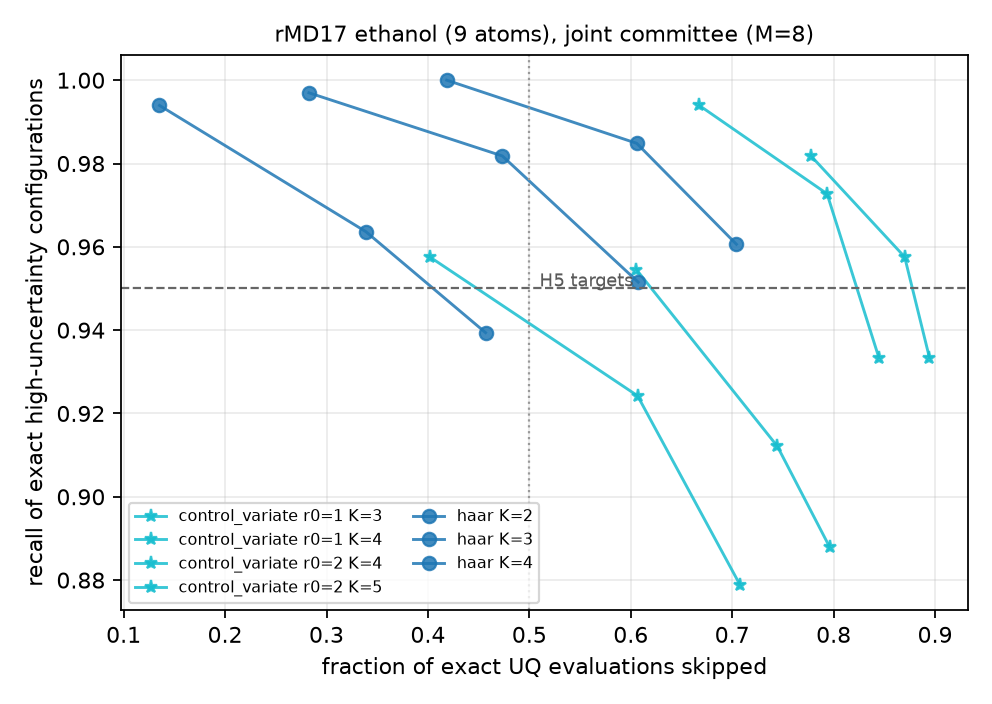
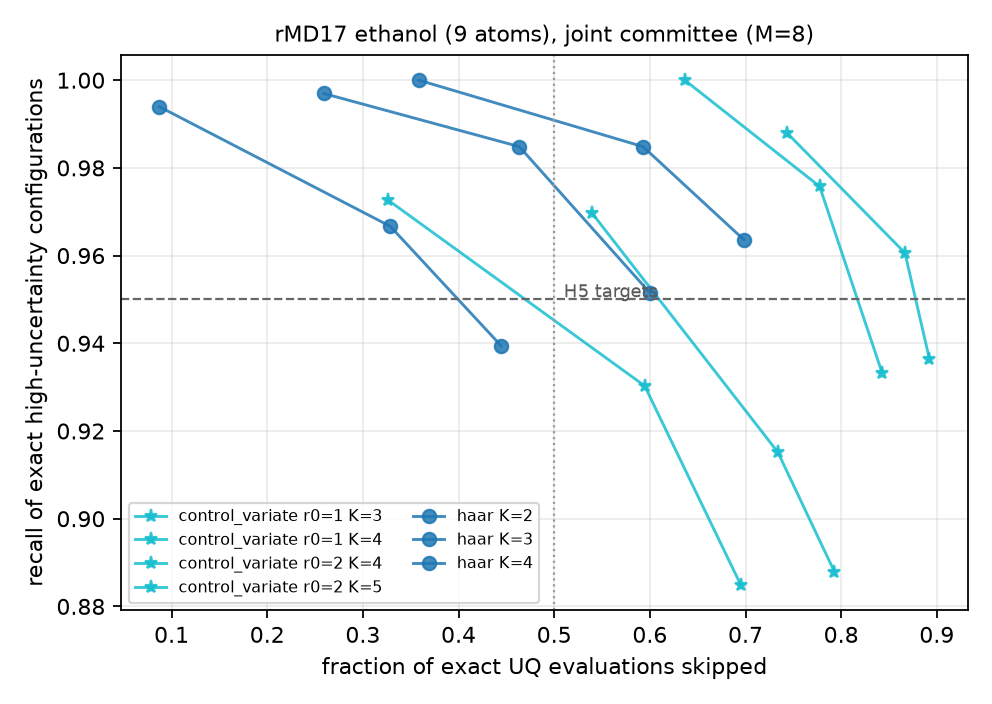
Regenerate frozen artifacts from committed records

diff --git a/forcesketch/paper/macros.tex b/forcesketch/paper/macros.tex
@@ -21,18 +21,18 @@
 \newcommand{\fsTotalKTwoBSixtyFour}{2.39}
 \newcommand{\fsIncrKThreeBSixtyFour}{2.33}
 \newcommand{\fsIncrKTwoBSixtyFour}{3.51}
-\newcommand{\fsGateSkipThreeBPA}{0.860}
-\newcommand{\fsGateRecallThreeBPA}{0.982}
-\newcommand{\fsGateSpeedupThreeBPA}{1.25}
-\newcommand{\fsGateSkipEthanol}{0.793}
-\newcommand{\fsGateRecallEthanol}{0.973}
-\newcommand{\fsGateSpeedupEthanol}{1.16}
-\newcommand{\fsGateSkipAspirin}{0.765}
-\newcommand{\fsGateRecallAspirin}{0.988}
-\newcommand{\fsGateSpeedupAspirin}{1.12}
-\newcommand{\fsGateSkipAzobenzene}{0.849}
+\newcommand{\fsGateSkipThreeBPA}{0.857}
+\newcommand{\fsGateRecallThreeBPA}{0.983}
+\newcommand{\fsGateSpeedupThreeBPA}{1.24}
+\newcommand{\fsGateSkipEthanol}{0.777}
+\newcommand{\fsGateRecallEthanol}{0.976}
+\newcommand{\fsGateSpeedupEthanol}{1.13}
+\newcommand{\fsGateSkipAspirin}{0.758}
+\newcommand{\fsGateRecallAspirin}{0.993}
+\newcommand{\fsGateSpeedupAspirin}{1.11}
+\newcommand{\fsGateSkipAzobenzene}{0.845}
 \newcommand{\fsGateRecallAzobenzene}{0.971}
-\newcommand{\fsGateSpeedupAzobenzene}{1.23}
+\newcommand{\fsGateSpeedupAzobenzene}{1.22}
 \newcommand{\fsNBoot}{10,000}
 \newcommand{\fsHaarRecallKTwoCI}{[0.414, 0.479]}
 \newcommand{\fsHaarSpearmanKTwoCI}{[0.661, 0.689]}

diff --git a/forcesketch/results/processed/table3_screening.md b/forcesketch/results/processed/table3_screening.md
@@ -1,86 +1,86 @@
 | system | method | K | alpha | exact skipped | high-UQ recall | FNR | screening speedup |
 |---|---|---:|---:|---:|---:|---:|---:|
-| disjoint_test_1200K | control variate r0=1 | 3 | 0.01 | 0.686 | 0.990 | 0.010 | 1.16x |
-| disjoint_test_1200K | control variate r0=1 | 3 | 0.05 | 0.786 | 0.978 | 0.022 | 1.32x |
-| disjoint_test_1200K | control variate r0=1 | 3 | 0.10 | 0.835 | 0.953 | 0.047 | 1.41x |
-| disjoint_test_1200K | control variate r0=1 | 4 | 0.01 | 0.768 | 0.988 | 0.012 | 1.12x |
-| disjoint_test_1200K | control variate r0=1 | 4 | 0.05 | 0.853 | 0.980 | 0.020 | 1.24x |
-| disjoint_test_1200K | control variate r0=1 | 4 | 0.10 | 0.882 | 0.962 | 0.038 | 1.29x |
-| disjoint_test_1200K | control variate r0=2 | 4 | 0.01 | 0.794 | 0.997 | 0.003 | 1.16x |
-| disjoint_test_1200K | control variate r0=2 | 4 | 0.05 | 0.860 | 0.982 | 0.018 | 1.25x |
-| disjoint_test_1200K | control variate r0=2 | 4 | 0.10 | 0.887 | 0.962 | 0.038 | 1.30x |
-| disjoint_test_1200K | control variate r0=2 | 5 | 0.01 | 0.870 | 0.993 | 0.007 | 1.11x |
-| disjoint_test_1200K | control variate r0=2 | 5 | 0.05 | 0.908 | 0.982 | 0.018 | 1.16x |
-| disjoint_test_1200K | control variate r0=2 | 5 | 0.10 | 0.922 | 0.958 | 0.042 | 1.18x |
-| disjoint_test_1200K | haar | 2 | 0.01 | 0.336 | 0.980 | 0.020 | 0.92x |
-| disjoint_test_1200K | haar | 2 | 0.05 | 0.546 | 0.935 | 0.065 | 1.13x |
-| disjoint_test_1200K | haar | 2 | 0.10 | 0.650 | 0.870 | 0.130 | 1.28x |
-| disjoint_test_1200K | haar | 3 | 0.01 | 0.500 | 0.987 | 0.013 | 0.96x |
-| disjoint_test_1200K | haar | 3 | 0.05 | 0.680 | 0.947 | 0.053 | 1.16x |
-| disjoint_test_1200K | haar | 3 | 0.10 | 0.762 | 0.900 | 0.100 | 1.28x |
-| disjoint_test_1200K | haar | 4 | 0.01 | 0.580 | 0.982 | 0.018 | 0.93x |
-| disjoint_test_1200K | haar | 4 | 0.05 | 0.749 | 0.957 | 0.043 | 1.10x |
-| disjoint_test_1200K | haar | 4 | 0.10 | 0.822 | 0.915 | 0.085 | 1.19x |
-| rmd17-disjoint_ethanol | control variate r0=1 | 3 | 0.01 | 0.402 | 0.958 | 0.042 | 0.88x |
-| rmd17-disjoint_ethanol | control variate r0=1 | 3 | 0.05 | 0.607 | 0.924 | 0.076 | 1.07x |
-| rmd17-disjoint_ethanol | control variate r0=1 | 3 | 0.10 | 0.708 | 0.879 | 0.121 | 1.20x |
-| rmd17-disjoint_ethanol | control variate r0=1 | 4 | 0.01 | 0.606 | 0.955 | 0.045 | 0.95x |
-| rmd17-disjoint_ethanol | control variate r0=1 | 4 | 0.05 | 0.744 | 0.912 | 0.088 | 1.09x |
-| rmd17-disjoint_ethanol | control variate r0=1 | 4 | 0.10 | 0.796 | 0.888 | 0.112 | 1.16x |
-| rmd17-disjoint_ethanol | control variate r0=2 | 4 | 0.01 | 0.668 | 0.994 | 0.006 | 1.01x |
-| rmd17-disjoint_ethanol | control variate r0=2 | 4 | 0.05 | 0.793 | 0.973 | 0.027 | 1.16x |
-| rmd17-disjoint_ethanol | control variate r0=2 | 4 | 0.10 | 0.845 | 0.933 | 0.067 | 1.23x |
-| rmd17-disjoint_ethanol | control variate r0=2 | 5 | 0.01 | 0.778 | 0.982 | 0.018 | 1.01x |
-| rmd17-disjoint_ethanol | control variate r0=2 | 5 | 0.05 | 0.870 | 0.958 | 0.042 | 1.11x |
-| rmd17-disjoint_ethanol | control variate r0=2 | 5 | 0.10 | 0.894 | 0.933 | 0.067 | 1.14x |
-| rmd17-disjoint_ethanol | haar | 2 | 0.01 | 0.135 | 0.994 | 0.006 | 0.77x |
-| rmd17-disjoint_ethanol | haar | 2 | 0.05 | 0.339 | 0.964 | 0.036 | 0.92x |
-| rmd17-disjoint_ethanol | haar | 2 | 0.10 | 0.457 | 0.939 | 0.061 | 1.03x |
-| rmd17-disjoint_ethanol | haar | 3 | 0.01 | 0.283 | 0.997 | 0.003 | 0.79x |
-| rmd17-disjoint_ethanol | haar | 3 | 0.05 | 0.473 | 0.982 | 0.018 | 0.93x |
-| rmd17-disjoint_ethanol | haar | 3 | 0.10 | 0.607 | 0.952 | 0.048 | 1.07x |
-| rmd17-disjoint_ethanol | haar | 4 | 0.01 | 0.418 | 1.000 | 0.000 | 0.81x |
-| rmd17-disjoint_ethanol | haar | 4 | 0.05 | 0.606 | 0.985 | 0.015 | 0.95x |
-| rmd17-disjoint_ethanol | haar | 4 | 0.10 | 0.704 | 0.961 | 0.039 | 1.05x |
-| rmd17-disjoint_aspirin | control variate r0=1 | 3 | 0.01 | 0.393 | 0.997 | 0.003 | 0.87x |
-| rmd17-disjoint_aspirin | control variate r0=1 | 3 | 0.05 | 0.557 | 0.977 | 0.023 | 1.01x |
-| rmd17-disjoint_aspirin | control variate r0=1 | 3 | 0.10 | 0.645 | 0.953 | 0.048 | 1.11x |
-| rmd17-disjoint_aspirin | control variate r0=1 | 4 | 0.01 | 0.535 | 1.000 | 0.000 | 0.89x |
-| rmd17-disjoint_aspirin | control variate r0=1 | 4 | 0.05 | 0.668 | 0.990 | 0.010 | 1.01x |
-| rmd17-disjoint_aspirin | control variate r0=1 | 4 | 0.10 | 0.745 | 0.980 | 0.020 | 1.10x |
-| rmd17-disjoint_aspirin | control variate r0=2 | 4 | 0.01 | 0.659 | 0.995 | 0.005 | 1.00x |
-| rmd17-disjoint_aspirin | control variate r0=2 | 4 | 0.05 | 0.765 | 0.988 | 0.013 | 1.12x |
-| rmd17-disjoint_aspirin | control variate r0=2 | 4 | 0.10 | 0.809 | 0.975 | 0.025 | 1.18x |
-| rmd17-disjoint_aspirin | control variate r0=2 | 5 | 0.01 | 0.783 | 0.995 | 0.005 | 1.01x |
-| rmd17-disjoint_aspirin | control variate r0=2 | 5 | 0.05 | 0.850 | 0.993 | 0.008 | 1.08x |
-| rmd17-disjoint_aspirin | control variate r0=2 | 5 | 0.10 | 0.872 | 0.990 | 0.010 | 1.11x |
-| rmd17-disjoint_aspirin | haar | 2 | 0.01 | 0.141 | 0.980 | 0.020 | 0.78x |
-| rmd17-disjoint_aspirin | haar | 2 | 0.05 | 0.311 | 0.935 | 0.065 | 0.89x |
-| rmd17-disjoint_aspirin | haar | 2 | 0.10 | 0.442 | 0.882 | 0.117 | 1.01x |
-| rmd17-disjoint_aspirin | haar | 3 | 0.01 | 0.224 | 0.982 | 0.018 | 0.76x |
-| rmd17-disjoint_aspirin | haar | 3 | 0.05 | 0.404 | 0.940 | 0.060 | 0.88x |
-| rmd17-disjoint_aspirin | haar | 3 | 0.10 | 0.529 | 0.905 | 0.095 | 0.99x |
-| rmd17-disjoint_aspirin | haar | 4 | 0.01 | 0.345 | 0.992 | 0.008 | 0.76x |
-| rmd17-disjoint_aspirin | haar | 4 | 0.05 | 0.538 | 0.955 | 0.045 | 0.89x |
-| rmd17-disjoint_aspirin | haar | 4 | 0.10 | 0.653 | 0.920 | 0.080 | 1.00x |
-| rmd17-disjoint_azobenzene | control variate r0=1 | 3 | 0.01 | 0.481 | 0.957 | 0.043 | 0.94x |
-| rmd17-disjoint_azobenzene | control variate r0=1 | 3 | 0.05 | 0.661 | 0.932 | 0.068 | 1.13x |
-| rmd17-disjoint_azobenzene | control variate r0=1 | 3 | 0.10 | 0.749 | 0.900 | 0.100 | 1.26x |
-| rmd17-disjoint_azobenzene | control variate r0=1 | 4 | 0.01 | 0.617 | 0.971 | 0.029 | 0.96x |
-| rmd17-disjoint_azobenzene | control variate r0=1 | 4 | 0.05 | 0.750 | 0.961 | 0.039 | 1.10x |
-| rmd17-disjoint_azobenzene | control variate r0=1 | 4 | 0.10 | 0.821 | 0.918 | 0.082 | 1.19x |
-| rmd17-disjoint_azobenzene | control variate r0=2 | 4 | 0.01 | 0.783 | 0.982 | 0.018 | 1.14x |
-| rmd17-disjoint_azobenzene | control variate r0=2 | 4 | 0.05 | 0.849 | 0.971 | 0.029 | 1.23x |
-| rmd17-disjoint_azobenzene | control variate r0=2 | 4 | 0.10 | 0.873 | 0.971 | 0.029 | 1.27x |
-| rmd17-disjoint_azobenzene | control variate r0=2 | 5 | 0.01 | 0.847 | 0.979 | 0.021 | 1.08x |
-| rmd17-disjoint_azobenzene | control variate r0=2 | 5 | 0.05 | 0.883 | 0.961 | 0.039 | 1.12x |
-| rmd17-disjoint_azobenzene | control variate r0=2 | 5 | 0.10 | 0.906 | 0.943 | 0.057 | 1.15x |
-| rmd17-disjoint_azobenzene | haar | 2 | 0.01 | 0.164 | 0.986 | 0.014 | 0.79x |
-| rmd17-disjoint_azobenzene | haar | 2 | 0.05 | 0.349 | 0.946 | 0.054 | 0.93x |
-| rmd17-disjoint_azobenzene | haar | 2 | 0.10 | 0.497 | 0.875 | 0.125 | 1.07x |
-| rmd17-disjoint_azobenzene | haar | 3 | 0.01 | 0.224 | 0.968 | 0.032 | 0.76x |
-| rmd17-disjoint_azobenzene | haar | 3 | 0.05 | 0.456 | 0.921 | 0.079 | 0.92x |
-| rmd17-disjoint_azobenzene | haar | 3 | 0.10 | 0.602 | 0.886 | 0.114 | 1.06x |
-| rmd17-disjoint_azobenzene | haar | 4 | 0.01 | 0.353 | 0.982 | 0.018 | 0.77x |
-| rmd17-disjoint_azobenzene | haar | 4 | 0.05 | 0.599 | 0.932 | 0.068 | 0.95x |
-| rmd17-disjoint_azobenzene | haar | 4 | 0.10 | 0.719 | 0.904 | 0.096 | 1.06x |
+| disjoint_test_1200K | control variate r0=1 | 3 | 0.01 | 0.661 | 0.992 | 0.008 | 1.13x |
+| disjoint_test_1200K | control variate r0=1 | 3 | 0.05 | 0.781 | 0.978 | 0.022 | 1.30x |
+| disjoint_test_1200K | control variate r0=1 | 3 | 0.10 | 0.831 | 0.957 | 0.043 | 1.39x |
+| disjoint_test_1200K | control variate r0=1 | 4 | 0.01 | 0.753 | 0.988 | 0.012 | 1.10x |
+| disjoint_test_1200K | control variate r0=1 | 4 | 0.05 | 0.850 | 0.980 | 0.020 | 1.23x |
+| disjoint_test_1200K | control variate r0=1 | 4 | 0.10 | 0.880 | 0.963 | 0.037 | 1.28x |
+| disjoint_test_1200K | control variate r0=2 | 4 | 0.01 | 0.780 | 0.998 | 0.002 | 1.13x |
+| disjoint_test_1200K | control variate r0=2 | 4 | 0.05 | 0.857 | 0.983 | 0.017 | 1.24x |
+| disjoint_test_1200K | control variate r0=2 | 4 | 0.10 | 0.885 | 0.965 | 0.035 | 1.29x |
+| disjoint_test_1200K | control variate r0=2 | 5 | 0.01 | 0.862 | 0.993 | 0.007 | 1.10x |
+| disjoint_test_1200K | control variate r0=2 | 5 | 0.05 | 0.906 | 0.983 | 0.017 | 1.15x |
+| disjoint_test_1200K | control variate r0=2 | 5 | 0.10 | 0.921 | 0.958 | 0.042 | 1.17x |
+| disjoint_test_1200K | haar | 2 | 0.01 | 0.307 | 0.985 | 0.015 | 0.89x |
+| disjoint_test_1200K | haar | 2 | 0.05 | 0.537 | 0.937 | 0.063 | 1.11x |
+| disjoint_test_1200K | haar | 2 | 0.10 | 0.643 | 0.875 | 0.125 | 1.26x |
+| disjoint_test_1200K | haar | 3 | 0.01 | 0.472 | 0.988 | 0.012 | 0.93x |
+| disjoint_test_1200K | haar | 3 | 0.05 | 0.673 | 0.948 | 0.052 | 1.14x |
+| disjoint_test_1200K | haar | 3 | 0.10 | 0.755 | 0.907 | 0.093 | 1.26x |
+| disjoint_test_1200K | haar | 4 | 0.01 | 0.549 | 0.983 | 0.017 | 0.90x |
+| disjoint_test_1200K | haar | 4 | 0.05 | 0.744 | 0.960 | 0.040 | 1.09x |
+| disjoint_test_1200K | haar | 4 | 0.10 | 0.818 | 0.918 | 0.082 | 1.18x |
+| rmd17-disjoint_ethanol | control variate r0=1 | 3 | 0.01 | 0.326 | 0.973 | 0.027 | 0.82x |
+| rmd17-disjoint_ethanol | control variate r0=1 | 3 | 0.05 | 0.595 | 0.930 | 0.070 | 1.05x |
+| rmd17-disjoint_ethanol | control variate r0=1 | 3 | 0.10 | 0.695 | 0.885 | 0.115 | 1.17x |
+| rmd17-disjoint_ethanol | control variate r0=1 | 4 | 0.01 | 0.540 | 0.970 | 0.030 | 0.90x |
+| rmd17-disjoint_ethanol | control variate r0=1 | 4 | 0.05 | 0.734 | 0.915 | 0.085 | 1.08x |
+| rmd17-disjoint_ethanol | control variate r0=1 | 4 | 0.10 | 0.793 | 0.888 | 0.112 | 1.15x |
+| rmd17-disjoint_ethanol | control variate r0=2 | 4 | 0.01 | 0.637 | 1.000 | 0.000 | 0.98x |
+| rmd17-disjoint_ethanol | control variate r0=2 | 4 | 0.05 | 0.777 | 0.976 | 0.024 | 1.13x |
+| rmd17-disjoint_ethanol | control variate r0=2 | 4 | 0.10 | 0.843 | 0.933 | 0.067 | 1.22x |
+| rmd17-disjoint_ethanol | control variate r0=2 | 5 | 0.01 | 0.744 | 0.988 | 0.012 | 0.97x |
+| rmd17-disjoint_ethanol | control variate r0=2 | 5 | 0.05 | 0.867 | 0.961 | 0.039 | 1.10x |
+| rmd17-disjoint_ethanol | control variate r0=2 | 5 | 0.10 | 0.892 | 0.936 | 0.064 | 1.13x |
+| rmd17-disjoint_ethanol | haar | 2 | 0.01 | 0.087 | 0.994 | 0.006 | 0.74x |
+| rmd17-disjoint_ethanol | haar | 2 | 0.05 | 0.329 | 0.967 | 0.033 | 0.90x |
+| rmd17-disjoint_ethanol | haar | 2 | 0.10 | 0.445 | 0.939 | 0.061 | 1.01x |
+| rmd17-disjoint_ethanol | haar | 3 | 0.01 | 0.259 | 0.997 | 0.003 | 0.78x |
+| rmd17-disjoint_ethanol | haar | 3 | 0.05 | 0.463 | 0.985 | 0.015 | 0.92x |
+| rmd17-disjoint_ethanol | haar | 3 | 0.10 | 0.600 | 0.952 | 0.048 | 1.05x |
+| rmd17-disjoint_ethanol | haar | 4 | 0.01 | 0.359 | 1.000 | 0.000 | 0.77x |
+| rmd17-disjoint_ethanol | haar | 4 | 0.05 | 0.593 | 0.985 | 0.015 | 0.94x |
+| rmd17-disjoint_ethanol | haar | 4 | 0.10 | 0.698 | 0.964 | 0.036 | 1.04x |
+| rmd17-disjoint_aspirin | control variate r0=1 | 3 | 0.01 | 0.348 | 0.997 | 0.003 | 0.84x |
+| rmd17-disjoint_aspirin | control variate r0=1 | 3 | 0.05 | 0.543 | 0.982 | 0.017 | 0.99x |
+| rmd17-disjoint_aspirin | control variate r0=1 | 3 | 0.10 | 0.639 | 0.953 | 0.048 | 1.10x |
+| rmd17-disjoint_aspirin | control variate r0=1 | 4 | 0.01 | 0.505 | 1.000 | 0.000 | 0.86x |
+| rmd17-disjoint_aspirin | control variate r0=1 | 4 | 0.05 | 0.658 | 0.990 | 0.010 | 1.00x |
+| rmd17-disjoint_aspirin | control variate r0=1 | 4 | 0.10 | 0.738 | 0.982 | 0.018 | 1.08x |
+| rmd17-disjoint_aspirin | control variate r0=2 | 4 | 0.01 | 0.625 | 0.995 | 0.005 | 0.97x |
+| rmd17-disjoint_aspirin | control variate r0=2 | 4 | 0.05 | 0.758 | 0.993 | 0.008 | 1.11x |
+| rmd17-disjoint_aspirin | control variate r0=2 | 4 | 0.10 | 0.806 | 0.975 | 0.025 | 1.17x |
+| rmd17-disjoint_aspirin | control variate r0=2 | 5 | 0.01 | 0.770 | 0.995 | 0.005 | 1.00x |
+| rmd17-disjoint_aspirin | control variate r0=2 | 5 | 0.05 | 0.844 | 0.993 | 0.008 | 1.07x |
+| rmd17-disjoint_aspirin | control variate r0=2 | 5 | 0.10 | 0.870 | 0.990 | 0.010 | 1.11x |
+| rmd17-disjoint_aspirin | haar | 2 | 0.01 | 0.110 | 0.985 | 0.015 | 0.75x |
+| rmd17-disjoint_aspirin | haar | 2 | 0.05 | 0.295 | 0.940 | 0.060 | 0.88x |
+| rmd17-disjoint_aspirin | haar | 2 | 0.10 | 0.430 | 0.893 | 0.107 | 0.99x |
+| rmd17-disjoint_aspirin | haar | 3 | 0.01 | 0.186 | 0.985 | 0.015 | 0.73x |
+| rmd17-disjoint_aspirin | haar | 3 | 0.05 | 0.392 | 0.940 | 0.060 | 0.87x |
+| rmd17-disjoint_aspirin | haar | 3 | 0.10 | 0.518 | 0.905 | 0.095 | 0.97x |
+| rmd17-disjoint_aspirin | haar | 4 | 0.01 | 0.280 | 0.992 | 0.008 | 0.73x |
+| rmd17-disjoint_aspirin | haar | 4 | 0.05 | 0.529 | 0.958 | 0.043 | 0.88x |
+| rmd17-disjoint_aspirin | haar | 4 | 0.10 | 0.646 | 0.920 | 0.080 | 0.99x |
+| rmd17-disjoint_azobenzene | control variate r0=1 | 3 | 0.01 | 0.423 | 0.964 | 0.036 | 0.89x |
+| rmd17-disjoint_azobenzene | control variate r0=1 | 3 | 0.05 | 0.648 | 0.939 | 0.061 | 1.11x |
+| rmd17-disjoint_azobenzene | control variate r0=1 | 3 | 0.10 | 0.742 | 0.904 | 0.096 | 1.24x |
+| rmd17-disjoint_azobenzene | control variate r0=1 | 4 | 0.01 | 0.594 | 0.975 | 0.025 | 0.94x |
+| rmd17-disjoint_azobenzene | control variate r0=1 | 4 | 0.05 | 0.738 | 0.961 | 0.039 | 1.09x |
+| rmd17-disjoint_azobenzene | control variate r0=1 | 4 | 0.10 | 0.818 | 0.918 | 0.082 | 1.19x |
+| rmd17-disjoint_azobenzene | control variate r0=2 | 4 | 0.01 | 0.759 | 0.986 | 0.014 | 1.11x |
+| rmd17-disjoint_azobenzene | control variate r0=2 | 4 | 0.05 | 0.845 | 0.971 | 0.029 | 1.22x |
+| rmd17-disjoint_azobenzene | control variate r0=2 | 4 | 0.10 | 0.872 | 0.971 | 0.029 | 1.26x |
+| rmd17-disjoint_azobenzene | control variate r0=2 | 5 | 0.01 | 0.821 | 0.986 | 0.014 | 1.05x |
+| rmd17-disjoint_azobenzene | control variate r0=2 | 5 | 0.05 | 0.881 | 0.964 | 0.036 | 1.12x |
+| rmd17-disjoint_azobenzene | control variate r0=2 | 5 | 0.10 | 0.905 | 0.943 | 0.057 | 1.15x |
+| rmd17-disjoint_azobenzene | haar | 2 | 0.01 | 0.107 | 0.989 | 0.011 | 0.75x |
+| rmd17-disjoint_azobenzene | haar | 2 | 0.05 | 0.319 | 0.954 | 0.046 | 0.90x |
+| rmd17-disjoint_azobenzene | haar | 2 | 0.10 | 0.489 | 0.882 | 0.118 | 1.06x |
+| rmd17-disjoint_azobenzene | haar | 3 | 0.01 | 0.161 | 0.982 | 0.018 | 0.72x |
+| rmd17-disjoint_azobenzene | haar | 3 | 0.05 | 0.448 | 0.921 | 0.079 | 0.91x |
+| rmd17-disjoint_azobenzene | haar | 3 | 0.10 | 0.588 | 0.889 | 0.111 | 1.04x |
+| rmd17-disjoint_azobenzene | haar | 4 | 0.01 | 0.262 | 0.982 | 0.018 | 0.72x |
+| rmd17-disjoint_azobenzene | haar | 4 | 0.05 | 0.579 | 0.936 | 0.064 | 0.93x |
+| rmd17-disjoint_azobenzene | haar | 4 | 0.10 | 0.712 | 0.904 | 0.096 | 1.05x |
